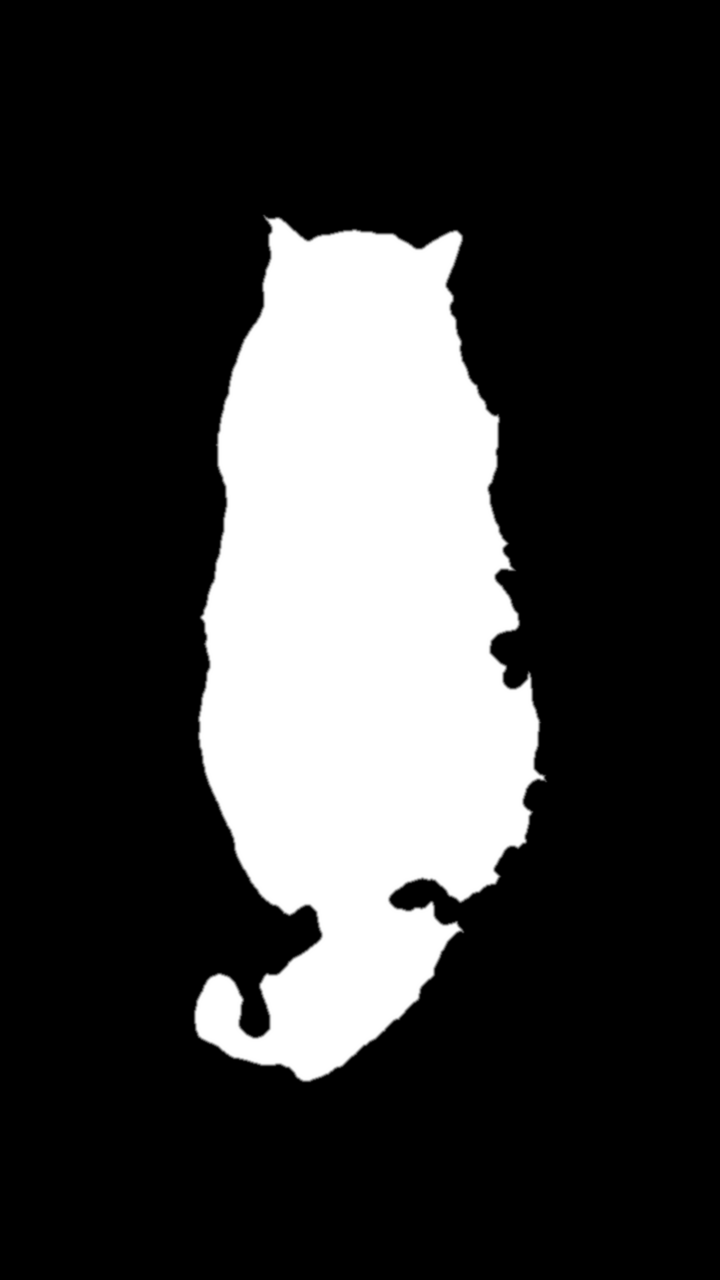
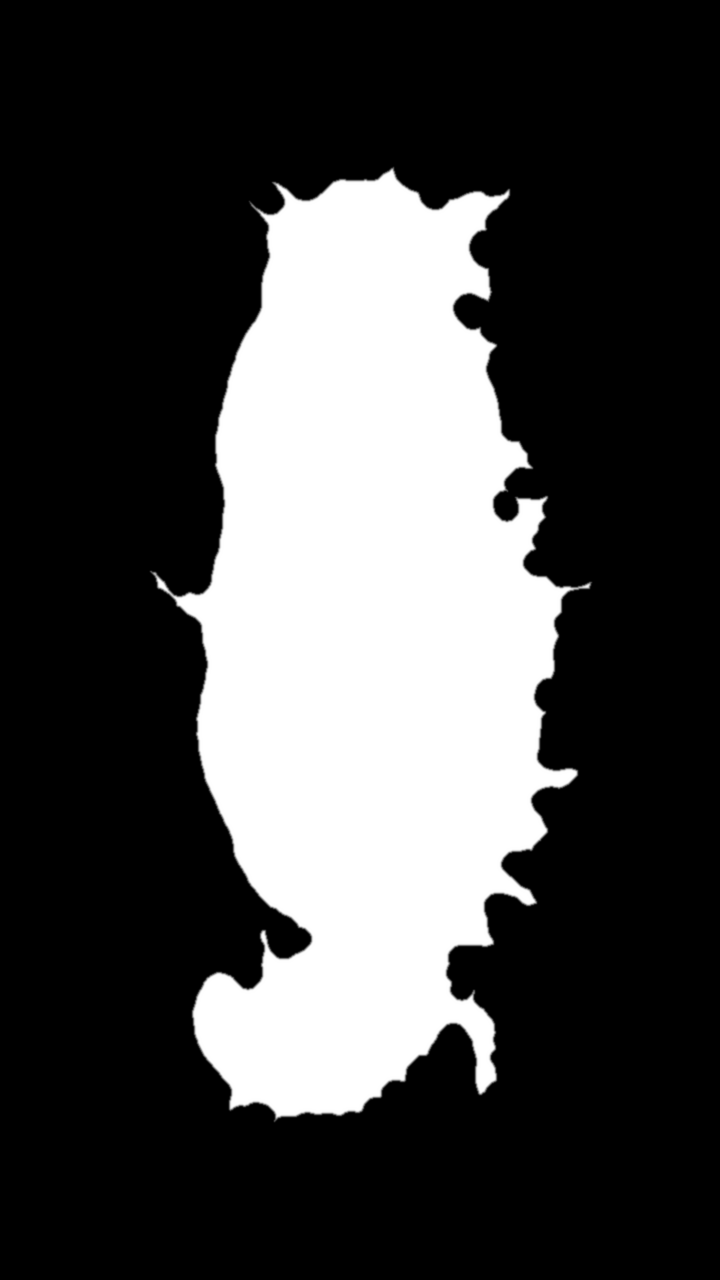
Clear the safe area and ship an iPhone-only calico edge.
The coat bar and top buttons now sit in safeAreaInset so they clear the
status bar and home indicator. The app targets iPhone only, the calico
matte is rebuilt from the original plate without the hip notch, and the
paywall keeps a single system grab handle. Screenshots cover four
languages at 1320x2868.

diff --git a/PurrPatUITests/ScreenshotTests.swift b/PurrPatUITests/ScreenshotTests.swift
@@ -11,37 +11,45 @@ final class ScreenshotTests: XCTestCase {
         let directory = URL(fileURLWithPath: root, isDirectory: true)
         try FileManager.default.createDirectory(at: directory, withIntermediateDirectories: true)
 
-        for shot in ["day", "night", "coats", "paywall"] {
-            let app = XCUIApplication()
-            app.launchArguments = ["-PurrPatShot", shot, "-PurrPatCPU", "-AppleLanguages", "(en)", "-AppleLocale", "en_US"]
-            if shot == "night" {
-                app.launchArguments.append("-PurrPatUnlock")
-            }
-            app.launch()
-
-            let ready = app.descendants(matching: .any)["shot-ready"]
-            XCTAssertTrue(ready.waitForExistence(timeout: 45), "\(shot) did not render the cat")
-
-            if shot == "paywall" {
-                let button = app.buttons["unlock-pro"]
-                XCTAssertTrue(button.waitForExistence(timeout: 15), "paywall button missing")
-                let deadline = Date().addingTimeInterval(12)
-                var label = button.label
-                while Date() < deadline && !Self.hasPrice(label) {
-                    Thread.sleep(forTimeInterval: 0.3)
-                    label = button.label
+        let locales = [
+            ("en", "en", "en_US"),
+            ("zh-Hans", "zh-Hans", "zh_Hans"),
+            ("zh-Hant", "zh-Hant", "zh_Hant"),
+            ("ja", "ja", "ja_JP"),
+        ]
+        for (file, language, locale) in locales {
+            for shot in ["day", "night", "coats", "paywall"] {
+                let app = XCUIApplication()
+                app.launchArguments = ["-PurrPatShot", shot, "-PurrPatCPU", "-AppleLanguages", "(\(language))", "-AppleLocale", locale]
+                if shot == "night" {
+                    app.launchArguments.append("-PurrPatUnlock")
                 }
-                try label.write(to: directory.appendingPathComponent("paywall-label.txt"), atomically: true, encoding: .utf8)
-                XCTAssertTrue(Self.hasPrice(label), "Unlock button has no price: \(label)")
-            }
+                app.launch()
 
-            // Let the hand overlay commit after the still is marked ready.
-            if shot == "day" {
-                Thread.sleep(forTimeInterval: 0.8)
+                let ready = app.descendants(matching: .any)["shot-ready"]
+                XCTAssertTrue(ready.waitForExistence(timeout: 45), "\(file) \(shot) did not render the cat")
+
+                if shot == "paywall" {
+                    let button = app.buttons["unlock-pro"]
+                    XCTAssertTrue(button.waitForExistence(timeout: 15), "paywall button missing")
+                    let deadline = Date().addingTimeInterval(12)
+                    var label = button.label
+                    while Date() < deadline && !Self.hasPrice(label) {
+                        Thread.sleep(forTimeInterval: 0.3)
+                        label = button.label
+                    }
+                    try label.write(to: directory.appendingPathComponent("paywall-label-\(file).txt"), atomically: true, encoding: .utf8)
+                    XCTAssertTrue(Self.hasPrice(label), "Unlock button has no price: \(label)")
+                }
+
+                // Let the hand overlay commit after the still is marked ready.
+                if shot == "day" {
+                    Thread.sleep(forTimeInterval: 0.8)
+                }
+                let data = XCUIScreen.main.screenshot().pngRepresentation
+                try data.write(to: directory.appendingPathComponent("\(file)-\(shot).png"))
+                app.terminate()
             }
-            let data = XCUIScreen.main.screenshot().pngRepresentation
-            try data.write(to: directory.appendingPathComponent("en-\(shot).png"))
-            app.terminate()
         }
     }
 

diff --git a/PurrPat/Views/PetScreen.swift b/PurrPat/Views/PetScreen.swift
@@ -27,7 +27,6 @@ struct PetScreen: View {
                         .opacity(session.handOpacity)
                 }
                 heart(in: size)
-                controls(insets: geo.safeAreaInsets)
             }
             .onAppear { session.placeDemoHand(in: size, settings: settings) }
             .onChange(of: size) { _, newSize in
@@ -35,6 +34,8 @@ struct PetScreen: View {
             }
         }
         .ignoresSafeArea()
+        .safeAreaInset(edge: .top, spacing: 0) { topControls }
+        .safeAreaInset(edge: .bottom, spacing: 0) { bottomControls }
         .preferredColorScheme(settings.scene == .night ? .dark : .light)
         .onAppear(perform: appear)
         .onChange(of: scenePhase) { _, phase in
@@ -162,24 +163,29 @@ struct PetScreen: View {
             .accessibilityHidden(true)
     }
 
-    private func controls(insets: EdgeInsets) -> some View {
-        VStack(spacing: 0) {
-            HStack(spacing: 8) {
-                Spacer()
-                chrome("square.and.arrow.up", "Share") { share() }
-                chrome(settings.purrEnabled ? "waveform" : "speaker.slash", "Purr") {
-                    settings.purrEnabled.toggle()
-                }
-                if settings.scene == .night {
-                    chrome("sun.max", "Daylight") { settings.scene = .day }
-                } else {
-                    chrome("moon.stars", "Moonlight") { toggleScene() }
-                }
-                chrome("gearshape", "Settings") { showSettings = true }
-            }
-            .padding(.horizontal, 16)
-            .padding(.top, insets.top + 8)
+    /// Outside the full-bleed reader, so these sit below the status bar.
+    private var topControls: some View {
+        HStack(spacing: 8) {
             Spacer()
+            chrome("square.and.arrow.up", "Share") { share() }
+            chrome(settings.purrEnabled ? "waveform" : "speaker.slash", "Purr") {
+                settings.purrEnabled.toggle()
+            }
+            if settings.scene == .night {
+                chrome("sun.max", "Daylight") { settings.scene = .day }
+            } else {
+                chrome("moon.stars", "Moonlight") { toggleScene() }
+            }
+            chrome("gearshape", "Settings") { showSettings = true }
+        }
+        .padding(.horizontal, 16)
+        .padding(.top, 8)
+        .padding(.bottom, 4)
+    }
+
+    /// Outside the full-bleed reader, so the coat bar clears the home indicator.
+    private var bottomControls: some View {
+        VStack(spacing: 0) {
             if !settings.hasStroked && DemoShot.current == nil {
                 Text("Stroke with the fur")
                     .font(.footnote)
@@ -189,7 +195,7 @@ struct PetScreen: View {
                     .padding(.bottom, 8)
             }
             coatBar
-                .padding(.bottom, insets.bottom + 8)
+                .padding(.bottom, 8)
         }
     }
 

diff --git a/PurrPat/Views/PaywallView.swift b/PurrPat/Views/PaywallView.swift
@@ -11,10 +11,6 @@ struct PaywallView: View {
 
     var body: some View {
         VStack(alignment: .leading, spacing: 22) {
-            Capsule()
-                .fill(ink.opacity(0.25))
-                .frame(width: 36, height: 5)
-                .frame(maxWidth: .infinity)
             Text("Purr Pat Pro")
                 .font(.largeTitle.weight(.semibold))
                 .foregroundStyle(ink)

diff --git a/tools/make_plate_masks.py b/tools/make_plate_masks.py
@@ -80,17 +80,16 @@ def lighting_diff(cat: np.ndarray, empty: np.ndarray, outside: np.ndarray) -> np
 
 
 def segment_calico(cat: np.ndarray, empty: np.ndarray, black_mask: np.ndarray) -> np.ndarray:
-    """Calico is lit brighter than cushion.jpg. Fit that light, then stay inside the shared pose."""
+    """Calico is lit brighter than cushion.jpg. Do not clip it to the black cat: that cut notches in the hip and left a pale gap by the tail."""
     outside = cv2.dilate(black_mask, cv2.getStructuringElement(cv2.MORPH_ELLIPSE, (31, 31))) == 0
     diff = cv2.GaussianBlur(lighting_diff(cat, empty, outside.astype(np.float32)), (0, 0), 0.8)
-    raw = (diff > 40).astype(np.uint8)
+    raw = (diff > 36).astype(np.uint8)
     small = cv2.getStructuringElement(cv2.MORPH_ELLIPSE, (3, 3))
     raw = cv2.morphologyEx(raw, cv2.MORPH_OPEN, small, iterations=1)
-    raw = cv2.morphologyEx(raw, cv2.MORPH_CLOSE, cv2.getStructuringElement(cv2.MORPH_ELLIPSE, (5, 5)), iterations=2)
+    raw = cv2.morphologyEx(raw, cv2.MORPH_CLOSE, cv2.getStructuringElement(cv2.MORPH_ELLIPSE, (9, 9)), iterations=2)
     raw = largest(fill_small_holes(raw, 10**9))
-    # One pixel of slack around the black pose. A wide dilation is what left the pale cushion ring.
-    allowed = cv2.dilate(black_mask, cv2.getStructuringElement(cv2.MORPH_ELLIPSE, (5, 5)), iterations=1)
-    return largest(cv2.bitwise_and(raw, allowed))
+    raw = cv2.morphologyEx(raw, cv2.MORPH_CLOSE, cv2.getStructuringElement(cv2.MORPH_ELLIPSE, (17, 17)), iterations=1)
+    return largest(raw)
 
 
 def refine(binary: np.ndarray, erode_px: int = 3, feather: float = 2.6) -> tuple[np.ndarray, np.ndarray]:
@@ -163,7 +162,7 @@ def main() -> None:
         else:
             binary = segment_diff(cat, empty, 40, 16, 5)
         # Light fur is already close to the cloth, so erode less or the body opens up.
-        tight, alpha = refine(binary, erode_px=2 if name in LIGHT else 3)
+        tight, alpha = refine(binary, erode_px=2 if name in LIGHT or name == "calico" else 3)
         cleaned = match_edge_light(cat, empty, tight, alpha)
         cv2.imwrite(str(folder / f"mask-{name}.png"), (alpha * 255.0).astype(np.uint8))
         cv2.imwrite(str(folder / f"plate-{name}.jpg"), cleaned, [int(cv2.IMWRITE_JPEG_QUALITY), 95])

diff --git a/tools/check_shot.py b/tools/check_shot.py
@@ -9,6 +9,7 @@ import struct
 import sys
 import zlib
 from pathlib import Path
+from typing import Optional, Tuple
 
 
 def read_png(path: Path):
@@ -154,7 +155,7 @@ def brown(rgb) -> bool:
     return 70 < red < 150 and 35 < green < 100 and 15 < blue < 80 and red > green + 15
 
 
-def check(path: Path, kind: str) -> None:
+def check(path: Path, kind: str, require_size: Optional[Tuple[int, int]] = None) -> None:
     width, height, channels, rows = read_png(path)
     full = (0, 0, width, height)
     margin = (int(width * 0.05), int(height * 0.38), int(width * 0.16), int(height * 0.55))
@@ -166,6 +167,8 @@ def check(path: Path, kind: str) -> None:
     margin_mean, _, _, _ = region_stats(rows, channels, width, height, margin)
     beige_count = count_where(rows, channels, width, height, margin, beige)
     problems = []
+    if require_size is not None and (width, height) != require_size:
+        problems.append(f"expected {require_size[0]}x{require_size[1]}, got {width}x{height}")
 
     if kind == "day":
         if mean < 50:
@@ -221,8 +224,9 @@ def main() -> None:
     if len(sys.argv) != 2:
         raise SystemExit("usage: check_shot.py SHOTS_DIR | check_shot.py FILE KIND")
     directory = Path(sys.argv[1])
-    for kind in ("day", "night", "coats", "paywall"):
-        check(directory / f"en-{kind}.png", kind)
+    for language in ("en", "zh-Hans", "zh-Hant", "ja"):
+        for kind in ("day", "night", "coats", "paywall"):
+            check(directory / f"{language}-{kind}.png", kind, require_size=(1320, 2868))
 
 
 if __name__ == "__main__":

diff --git a/README.md b/README.md
@@ -1,6 +1,6 @@
 # Purr Pat · 撸猫
 
-A calm cat-petting toy for iPhone and iPad. A cat lies on a cushion by the window. Stroke with the fur and it purrs — in the speaker, and in your hand.
+A calm cat-petting toy for iPhone. A cat lies on a cushion by the window. Stroke with the fur and it purrs — in the speaker, and in your hand.
 
 ## Open
 
